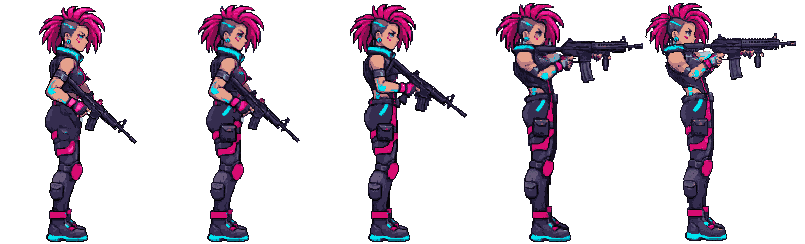
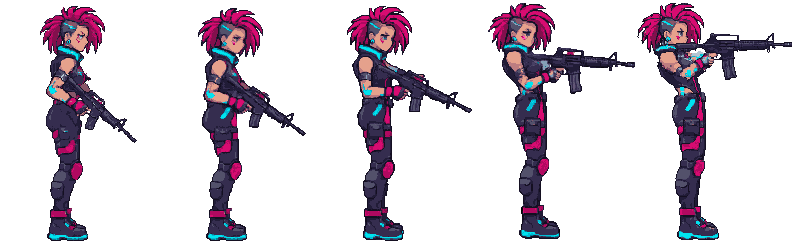
Sturmgewehr: ein Gewehr in allen Posen, Nachladen mit Magazinwechsel, Symbol im Inventar, auf dem Rücken, Posen leihen
Claude-Session: https://claude.ai/code/session_01DEYRZvtj1NpTzQf9JS3dST

diff --git a/engine/schema.js b/engine/schema.js
@@ -477,12 +477,16 @@ export const AREAS = {
         num('knockback', 'Rückstoß', { unit: 'px/s', min: 0 }), num('critChance', 'Krit-Chance', { unit: '%', min: 0, max: 100 }), num('ammo', 'Munition', { min: 0, hint: 'Leer = unendlich' }),
         num('projectileSpeed', 'Geschosstempo', { unit: 'px/s', min: 0, hint: 'Nur Fernkampf: so schnell fliegt das Geschoss' }), ref('sound', 'Schuss-Ton', 'assets', { hint: 'Asset der Art Ton' }),
         num('magazine', 'Magazin', { unit: 'Schuss', min: 1, hint: 'Nur Fernkampf: so viele Schuss, dann nachladen (R, leer = automatisch). Munition = Vorrat insgesamt' }), num('reloadTime', 'Nachladen dauert', { unit: 'ms', min: 0 })] },
-      { title: 'Posen (Leyla)', fields: [ref('poses.draw', 'Ziehen', 'assets', { hint: 'Daniel, 12.11.2026: eine Waffe kann eigene Posen für Leyla mitbringen (Sturmgewehr). Leer = Leylas eigene (Leyla › Waffe ziehen). Rückwärts = wegstecken' }),
+      { title: 'Posen (Leyla)', fields: [ref('posesFrom', 'Posen von', 'weapons', { hint: 'Daniel, 12.11.2026: „neue Waffen, die entweder Kurzwaffe oder Langwaffe sind, sollten einfach sein“. Eine neue Langwaffe leiht sich Posen und Rücken-Lage vom Sturmgewehr, eigene Felder unten gehen vor. Auf dem Rücken zeigt sie ihr eigenes Symbol' }), ref('poses.draw', 'Ziehen', 'assets', { hint: 'Daniel, 12.11.2026: eine Waffe kann eigene Posen für Leyla mitbringen (Sturmgewehr). Leer = Leylas eigene (Leyla › Waffe ziehen). Rückwärts = wegstecken' }),
         ref('poses.aim', 'Zielen', 'assets'), ref('poses.shoot', 'Schießen', 'assets'), ref('poses.aimWalk', 'Gehen mit Waffe', 'assets'), ref('poses.shootWalk', 'Schießen im Gehen', 'assets'),
         ref('poses.reload', 'Nachladen', 'assets'), ref('poses.reloadWalk', 'Nachladen im Gehen', 'assets'),
         ref('poses.runGun', 'Rennen mit Waffe', 'assets'), ref('poses.runReady', 'Rennen, Waffe bereit', 'assets'), ref('poses.runDraw', 'Rennen, Ziehen', 'assets'),
         ref('poses.runReload', 'Rennen + Nachladen 1', 'assets'), ref('poses.runReload2', 'Rennen + Nachladen 2', 'assets'),
         point('poses.muzzle', 'Mündung', { unit: 'px', hint: 'Wie Leyla › Waffe ziehen › Mündung, für diese Waffe' }), point('poses.muzzleRun', 'Mündung im Rennen', { unit: 'px' })] },
+      { title: 'Auf dem Rücken', fields: [select('back.show', 'Zeigen', [['', 'nie'], ['stowed', 'immer, wenn weggesteckt'], ['moves', 'nur beim Klettern, Springen, Hängen']], { hint: 'Daniel, 12.11.2026: das Gewehr hängt auf Leylas Rücken, wenn sie es nicht in der Hand hat. Bild = das Symbol der Waffe (Aussehen + Symbol)' }),
+        num('back.length', 'Länge im Spiel', { unit: 'px', min: 10, hint: 'Bei 192 px Größe von Leyla' }),
+        table('back.spots', 'Stelle je Lage', [select('state', 'Lage', [['stand', 'Stehen, Gehen, Rennen'], ['jump', 'Springen, Fallen'], ['climb', 'Klettern (von hinten)'], ['hang', 'Hängen'], ['mantle', 'Hochziehen'], ['swing', 'Seil'], ['dash', 'Dash'], ['slide', 'Slide'], ['crouch', 'Ducken'], ['land', 'Harte Landung'], ['brake', 'Bremsen']]),
+          point('point', 'Stelle', { unit: 'px', hint: 'x hinter Leyla, y über den Füßen' }), num('angle', 'Winkel', { unit: '°' }), bool('front', 'Vor Leyla'), bool('hide', 'Ausblenden')])] },
       { title: 'Rucksack & Handel', fields: [size('size', 'Größe', { unit: 'Felder' }), VALUE] },
     ],
     check: iconCheck,

diff --git a/game/play/leyla.js b/game/play/leyla.js
@@ -18,7 +18,8 @@ export class Leyla {
   // Leyla's data, with the poses of the ranged weapon in her hand laid over her own looks (Waffen › Posen, Daniel, 12.11.2026:
   // „Sturmgewehr als Grundlage für weitere Waffenvarianten“); without poses: her own data
   get d() {
-    const w = this.scene.weapon?.('ranged'), P = w?.poses;
+    const w = this.scene.weapon?.('ranged'), from = w?.posesFrom && this.scene.data_.weapons?.[w.posesFrom];
+    const P = w && (w.poses || from?.poses) ? { ...from?.poses, ...w.poses } : null;   // Waffen › Posen von: a new gun borrows the poses of another one
     if (!P) return this.base;
     if (this.posesOf !== w) {
       this.posesOf = w;
@@ -691,6 +692,29 @@ export class Leyla {
     this.sprite.setFlipX(flipped).setOrigin(flipped ? 1 - info.ox : info.ox, info.oy);   // Phaser mirrors inside the frame: the anchor has to mirror too
     if (st !== 'dead') this.sprite.setAlpha(time < this.invulnerableUntil && Math.floor(time / 70) % 2 ? 0.35 : 1);
     this.recoil(time);
+    this.backGun(name);
+  }
+
+  // Waffen › Auf dem Rücken (Daniel, 12.11.2026: „ergänze, dass ein Gewehr auf ihrem Rücken hängt, wenn sie klettert oder springt“):
+  // the long gun hangs on her back while it is not in her hands; the picture is the gun's inventory icon, placed per state
+  // (Stelle: x behind her, y above the feet, in px at 192 px height; Winkel: muzzle up behind the shoulder; Vor Leyla: seen from behind)
+  backGun(look) {
+    const w = this.scene.weapon?.('ranged'), B = w?.back || (w?.posesFrom && this.scene.data_.weapons?.[w.posesFrom]?.back), sp = this.sprite, st = this.state, f = this.facing;
+    const air = ['jump', 'fall', 'airJump'].includes(look);
+    const state = air ? 'jump' : ['climb', 'hang', 'mantle', 'swing', 'dash', 'slide', 'crouch', 'land', 'brake'].includes(st) ? st : 'stand';
+    const moves = air || ['climb', 'hang', 'mantle', 'swing'].includes(st);
+    const rows = B?.spots || [], row = rows.find(r => r.state === state) || rows.find(r => r.state === 'stand');
+    const hidden = !B?.show || !w.look || w.icon == null || !row || row.hide || this.armed !== 'off' || !sp.visible || st === 'dead'
+      || ['sit', 'pose'].includes(st) || look === '@' + this.d.look?.work || (B.show === 'moves' && !moves) || !this.scene.textures.exists(w.look);
+    if (hidden) { if (this.backImg?.visible) this.backImg.setVisible(false); this.backShown = null; return; }
+    const A = this.scene.data_.assets?.[w.look], cw = (Array.isArray(A?.cell) ? A.cell[0] : A?.cell) || 64, k = this.size.h / 168;
+    this.backImg ??= this.scene.add.image(0, 0, w.look, w.icon);
+    const [px, py] = row.point || [14, 120], ang = (row.angle ?? 60) * Math.PI / 180;
+    this.backImg.setTexture(w.look, w.icon).setVisible(true).setDepth(sp.depth + (row.front ? 0.002 : -0.002))
+      .setPosition(sp.x - f * px * k, sp.y - py * k).setRotation(f * ang + (sp.rotation || 0)).setFlipX(f > 0)
+      .setScale((B.length ?? 110) * k / cw).setAlpha(sp.alpha);
+    if (sp.isTinted) this.backImg.setTint(sp.tintTopLeft); else this.backImg.clearTint();
+    this.backShown = state;
   }
 
   // ---------- melee (Daniel, 07.11.2026 spät): tap = light hit, standing or walking; holding = heavy hit when released ----------

diff --git a/game/play/inventory_ui.js b/game/play/inventory_ui.js
@@ -38,13 +38,18 @@ export function iconCell(D, t) {
   if (A?.kind !== 'icons' || !A.file || t.icon === undefined) return null;
   const [c, r] = A.grid || [1, 1];
   if (t.icon < 0 || t.icon >= c * r) return null;
-  return { url: new URL(A.file, ASSET_BASE).href, c, r, col: t.icon % c, row: Math.floor(t.icon / c) };
+  const [cw, ch] = Array.isArray(A.cell) ? A.cell : [A.cell || 1, A.cell || 1];
+  return { url: new URL(A.file, ASSET_BASE).href, c, r, col: t.icon % c, row: Math.floor(t.icon / c), aspect: cw / ch || 1 };
 }
-export function artOf(D, a, id, px, turn = 0) {
+// the picture of a thing; wide icon sheets (e.g. 128 × 64 for long guns, Daniel 12.11.2026) keep their shape:
+// px × ph is the box before turning, without ph the picture fits into a px square
+export function artOf(D, a, id, px, turn = 0, ph = null) {
   const k = iconCell(D, thing(D, a, id));
   if (!k) return null;
+  let w = px, h = ph ?? px;
+  if (ph == null && k.aspect !== 1) { if (k.aspect > 1) h = px / k.aspect; else w = px * k.aspect; }
   const pos = (i, n) => n > 1 ? (i / (n - 1)) * 100 : 0;
-  return el('span', { class: 'inv-art', style: `width:${px}px;height:${px}px;background-image:url("${k.url}");background-size:${k.c * 100}% ${k.r * 100}%;` +
+  return el('span', { class: 'inv-art', style: `width:${w}px;height:${h}px;background-image:url("${k.url}");background-size:${k.c * 100}% ${k.r * 100}%;` +
     `background-position:${pos(k.col, k.c)}% ${pos(k.row, k.r)}%;${turn ? `transform:rotate(${turn * 90}deg);` : ''}` });
 }
 // picture if there is one, otherwise the glyph as text
@@ -285,8 +290,11 @@ export class InventoryUI {
     const set = new Set(cells.map(p => p.join(',')));
     for (const [x, y] of cells) wrap.append(el('i', { style: `left:${x * c}px;top:${y * c}px;width:${c}px;height:${c}px`,
       class: [!set.has(`${x - 1},${y}`) && 'l', !set.has(`${x + 1},${y}`) && 'r', !set.has(`${x},${y - 1}`) && 't', !set.has(`${x},${y + 1}`) && 'b'].filter(Boolean).join(' ') }));
-    const [lx, ly] = cells[0], side = Math.min(b.w, b.h) * c, art = artOf(D, e.a, e.id, Math.round(side * 0.92), e.r || 0);
-    if (art) { wrap.classList.add('pic'); wrap.append(el('span', { class: 'inv-pic', style: `left:${(b.w * c - side) / 2}px;top:${(b.h * c - side) / 2}px;width:${side}px;height:${side}px` }, art)); }
+    // the picture fills the box in its own shape (square icons a square, wide ones as wide as the thing), turned with it
+    const [lx, ly] = cells[0], k = iconCell(D, t), odd = (e.r || 0) % 2 === 1, W = b.w * c, H = b.h * c;
+    const [uw, uh] = odd ? [H, W] : [W, H], sz = k ? Math.min(uw / k.aspect, uh) : 0, aw = sz * (k?.aspect || 1) * 0.92, ah = sz * 0.92;
+    const art = k && artOf(D, e.a, e.id, aw, e.r || 0, ah);
+    if (art) { wrap.classList.add('pic'); wrap.append(el('span', { class: 'inv-pic', style: `left:${(W - aw) / 2}px;top:${(H - ah) / 2}px;width:${aw}px;height:${ah}px` }, art)); }
     else wrap.append(el('span', { class: 'inv-glyph', style: `left:${lx * c}px;top:${ly * c}px;width:${c}px;height:${c}px` }, glyphOf(D, e.a, e.id)));
     if (!art && (b.w * c >= 80 || b.h > 1)) wrap.append(el('span', { class: 'inv-name' }, t.name || e.id));
     if (e.n > 1) wrap.append(el('span', { class: 'inv-count' }, String(e.n)));

diff --git a/game/play/scene.js b/game/play/scene.js
@@ -55,7 +55,7 @@ export class PlayScene extends Phaser.Scene {
     for (const id of [DR.look, DR.face?.look, DR.face?.glass, ...(DR.parts || []).filter(r => r.on).map(r => r.look)]) if (id) ids.add(id);
     for (const r of this.data_.leyla?.idles || []) if (r.look) ids.add(r.look);
     { const C = this.data_.leyla?.combo || {}; for (const r of C.hits || []) for (const id of [r.look, r.walk]) if (id) ids.add(id); if (C.finisher) ids.add(C.finisher); }   // melee combo (Leyla › Kombo)
-    for (const w of Object.values(this.data_.weapons || {})) for (const id of [w.sound, ...Object.values(w.poses || {}).filter(v => typeof v === 'string')]) if (id) ids.add(id);   // Waffen › Posen
+    for (const w of Object.values(this.data_.weapons || {})) for (const id of [w.sound, (w.back?.show || w.posesFrom) && w.look, ...Object.values(w.poses || {}).filter(v => typeof v === 'string')]) if (id) ids.add(id);   // Waffen › Posen, › Auf dem Rücken
     const SP = this.data_.game?.spawn;
     for (const id of [SP?.look, SP?.dish?.look, SP?.roof?.front, this.data_.rooms?.[this.roomId]?.backdrop?.image]) if (id) ids.add(id);
     if (this.data_.camp?.chest?.look) ids.add(this.data_.camp.chest.look);   // chests in POIs too

diff --git a/tools/rifle_strips.py b/tools/rifle_strips.py
@@ -9,6 +9,7 @@ Prints frame size, frame count and the anchor (feet) for assets.json.
     python3 tools/rifle_strips.py
 """
 import os
+from collections import deque
 from PIL import Image
 
 L = os.path.join(os.path.dirname(__file__), '..', 'projects', 'nomadgirl', 'assets', 'leyla')
@@ -21,7 +22,7 @@ STRIPS = {
     'rifle_draw_side': ('rifle_draw_side_source.png', (208, 244), range(0, 7), 93.5, 242),
     'rifle_aim_side': ('rifle_aim_side_source.png', (208, 244), range(0, 5), 89.5, 242),
     'rifle_shoot_side': ('rifle_shoot_side_source.png', (208, 244), [1, 2, 3, 4], 89.5, 242),
-    'rifle_reload_side': ('rifle_reload_side_source.png', (208, 244), range(0, 11), 89.5, 242),
+    'rifle_reload_side': ('rifle_reload_side_source.png', (208, 244), range(0, 23), 89.5, 242),
     'rifle_aim_walk_side': ('rifle_aim_walk_side_source.png', (208, 244), range(0, 8), 106, 242),
     'rifle_run_gun_side': ('rifle_run_gun_side_source.png', (208, 244), range(0, 8), 106, 242),
     'rifle_run_ready_side': ('rifle_run_ready_side_source.png', (208, 244), range(0, 8), 106, 242),
@@ -52,11 +53,49 @@ def snap(im, pal, cache):
     return im
 
 
+def components(im):
+    px, (w, h), seen, out = im.load(), im.size, set(), []
+    for y in range(h):
+        for x in range(w):
+            if px[x, y][3] and (x, y) not in seen:
+                q, c = deque([(x, y)]), []
+                seen.add((x, y))
+                while q:
+                    a, b = q.popleft()
+                    c.append((a, b))
+                    for dx in (-1, 0, 1):
+                        for dy in (-1, 0, 1):
+                            n = (a + dx, b + dy)
+                            if 0 <= n[0] < w and 0 <= n[1] < h and n not in seen and px[n][3]:
+                                seen.add(n)
+                                q.append(n)
+                out.append(c)
+    return sorted(out, key=len, reverse=True)
+
+
+def mend(f, pad):
+    """PixelLab cuts a muzzle that reaches the right edge and lets it come in again at the left edge (the 'artefacts behind Leyla'):
+    pieces touching the left edge go back to the right, behind the barrel; specks of 1-3 pixels go."""
+    out = Image.new('RGBA', (f.width + pad, f.height))
+    out.paste(f, (0, 0))
+    src, px = f.load(), out.load()
+    for c in components(f)[1:]:
+        for x, y in c:
+            px[x, y] = (0, 0, 0, 0)
+        if len(c) <= 3:
+            continue
+        dx = f.width if min(x for x, _ in c) == 0 and len(c) < 300 else 0
+        for x, y in c:
+            px[x + dx, y] = src[x, y]
+    return out
+
+
 def main():
     pal, cache = palette(), {}
     for out, (src, (fw, fh), take, ax, ay) in STRIPS.items():
         S = Image.open(os.path.join(L, src)).convert('RGBA')
-        frames = [snap(S.crop((i * fw, 0, (i + 1) * fw, fh)), pal, cache) for i in take]
+        frames = [mend(snap(S.crop((i * fw, 0, (i + 1) * fw, fh)), pal, cache), 48) for i in take]
+        fw += 48
         boxes = [f.getbbox() for f in frames if f.getbbox()]
         x0, x1 = min(b[0] for b in boxes), max(b[2] for b in boxes)
         x0, x1 = max(0, x0 - 1), min(fw, x1 + 1)

diff --git a/CLAUDE.md b/CLAUDE.md
@@ -30,7 +30,7 @@ node tools/ng.js check                     # Spieldaten prüfen
 npm run serve                              # dann http://localhost:8766/workshop.html
 node tools/workshop_test.mjs [--shots]     # Werkstatt kopflos bedienen (Server muss laufen), Bilder nach output/
 node tools/splash_test.mjs [--shots]       # Startseite in drei Größen + Controller (Menü wählen, Kurve, A öffnet) (Server muss laufen)
-node tools/game_test.mjs [--shots]         # Spiel kopflos im Kampfraum (?room=kampfraum): Kampf, schwerer Nahkampf, Magazin + Nachladen, Slide, Plattformen, Leiter, Seil, Dash, Drohne mit Gesicht + Kabeln, Kampfmodus, Quick Draw + halten = wegstecken, Cells-like mit Zielhilfe, Schlitten, Rennen im Kampfmodus (Brust, Schuss, Nachladen, Wegstecken), Nachladen im Sprung + Pause bei Treffer, Treffer leicht/schwer, Kombo mit Takt und Schuss, Waffe wechseln + Revolver aus Code (50 Prüfungen)
+node tools/game_test.mjs [--shots]         # Spiel kopflos im Kampfraum (?room=kampfraum): Kampf, schwerer Nahkampf, Magazin + Nachladen, Slide, Plattformen, Leiter, Seil, Dash, Drohne mit Gesicht + Kabeln, Kampfmodus, Quick Draw + halten = wegstecken, Cells-like mit Zielhilfe, Schlitten, Rennen im Kampfmodus (Brust, Schuss, Nachladen, Wegstecken), Nachladen im Sprung + Pause bei Treffer, Treffer leicht/schwer, Kombo mit Takt und Schuss, Waffe wechseln + Revolver aus Code, Sturmgewehr mit Posen + auf dem Rücken (51 Prüfungen)
 node tools/camp_test.mjs [--shots]         # Camp (game.html?camp): Van-Menü, Warroom, Run und zurück, Schlafen, Feuer, Reden, Fahren, k.o., Kiste, W mit Hinweis + Fenster pausiert, Ton, Van-Licht, Dämmerung, Schacht, Sitzen am Feuer, Spielstand (26 Prüfungen), Bilder nach output/camp_*.png
 node tools/inventory_test.mjs [--shots]    # Inventar mit echten Mausklicks: Kiste, Symbole statt Kürzel, nehmen/ablegen, drehen, Doppelklick, Slots, Rucksack tauschen, Lager, Boden-Inventar, Auto-Stapeln, k.o., Aktionen im Tooltip/Rechtsklick-Menü: Heilen, Drohne geben, Ausrüsten, per Taste, Boden-Leiste (zeigen, E hebt auf, weg = aus) (33 Prüfungen)
 node tools/gear_test.mjs [--shots]        # Inventar im Diablo-Stil mit echten Mausklicks: Rucksack | Leyla | AvA, Kopf + Rüstung mit Werten, falscher Platz, Tab Implantate (Scan, 6 Plätze), Implantat im Camp, Belastung, AvAs Teile (auch draußen), Rettungsfach, Reaktionen, im Run keine Implantate, k.o. behält Rettungsfach, Umschalten im selben Fenster (20 Prüfungen)
@@ -146,7 +146,8 @@ Daniel nutzt PixelLab für Grafiken (10.11.2026: „direkte Verbindung“). `.mc
 - **AvA als Plattform** (Daniel, 12.11.2026: „Mama als Plattform meine ich eher im Sinne von: Leyla kann dran hochklettern und auf ihr stehen, bis der Akku alle ist“). `drone.js` `makePlatform`/`updatePlatform`/`ledgeFor`/`empty`, Drohne › **Plattform**: solange AvA mit dem rechten Stick rausgezogen ist (Gummiband) oder danach **parkt** („Parkt nach dem Loslassen“ 1800 ms, dann fliegt sie zurück), ist ihre Oberkante eine Einweg-Plattform (eigene Zone mit Collider, „Breite“ 110 px, „Oberkante unter dem Scheitel“ 14 px) und ihre Seiten sind Kanten: `scene.ledgeAt` fragt nach den Kacheln `drone.ledgeFor` (auch etwas unter ihrer Kante), Leyla hängt dort oder zieht sich hoch; ist unter ihr kein Platz zum Hängen (tief über dem Boden), klettert sie direkt hinauf (`startVault`). Trägt sie Leyla (stehen, hängen), hält sie still, sinkt leicht („Sinkt beim Tragen“) und der **Akku** läuft leer („Akku“ 4 s, Balken über ihr: cyan/gold/rot); leer = „Akku leer!“, sie sackt weg, Leyla fällt bzw. lässt los, „Erholt sich ab“ 1,5 s; ohne Last lädt sie in „Aufladen“ 6 s. **Schweben** (Daniel, 12.11.2026: „kurz schweben mit Leyla ist ok, aber mit dem Gewicht kann sie das nicht lange machen“): steht Leyla auf ihr, bewegt der rechte Stick beide (Plattform › Schweben: Tempo 150 px/s, nach oben 60 %, Akku-Verbrauch ×3, also gut 1 s Flug); Leyla wird mitgeschoben (`body.x/y` + `prev`), nicht durch Wände (`rectFree`). **Leichter drauf und dran** (Daniel, 12.11.2026: „zu schwer, sich an die Drohne zu hängen, sieht clunky aus; Stehen: lass Leyla direkt auf bzw. in der oberen Hälfte stehen; Hängen so ähnlich, nur mit dem hinteren Part“): Standfläche 34 px unter ihrem Scheitel (Leyla steht in ihrer oberen Hälfte); ist Leyla in der Luft mit den Füßen bis „Aufsteigen: Fangbereich“ (70 px) unter der Standfläche, steht sie sofort drauf (nicht beim Hochspringen schneller als 250 px/s, nicht beim Durchfallen); **Hängen am Greifarm** hinten (`gripPoint`, Plattform › Hängen am Anbauteil, ohne Teil „Griff ohne Teil“): Hände in „Hängen: Fangbereich“ 70 px → sie greift von selbst (nur wo die Beine frei hängen, `hangFits`), ↑/Sprung zieht sie oben drauf; **hängend fliegt sie mit** (rechter Stick, `carryLeyla` schiebt Leyla und den Griff mit, nicht durch Wände), auch das Absinken nimmt sie mit. **Teile machen sie stärker:** Gegenstände › „AvA: mehr Akku“ (`battery` %, über Bug, Heck, Kern, Modul summiert, `batteryBonus`): Greifarm +10, neu **Hochleistungszelle** (Kern, +60) und **Turbinenmodul** (Modul, +35), beide in der Drohnen-Beute. Nicht im Bau-Modus und nicht angedockt. Offen: Akku aus einem Drohnenteil (Kern), Tastatur-Steuerung für das Gummiband.
 - **Bau-Modus mit AvA, Leyla am Feuer** (Daniel, 12.11.2026: „im Bau-Modus im Rig soll man nur noch die Drohne steuern und Leyla setzt sich ans Feuer“). `build_mode.js`: beim Öffnen setzt `sitAtFire` Leyla neben das Lagerfeuer (Staubwölkchen, auch aus einem Container oben; sitzt wie am Feuer, aber ohne Zeit und Heilen), beim Schließen steht sie auf. `droneTarget` → `drone.build` je Frame: AvA fliegt über dem Zeiger bzw. Bau-Cursor (Rig-Bau › Bau-Modus › „AvA über dem Zeiger“ 60 px, „folgt“ 30 %), ein gepacktes Teil hängt unter ihr; ist „Leyla werkelt“ an, fliegt sie zum Job und schraubt dort (Funken, Ratsche, Ring). Schalter „Leyla setzt sich ans Feuer“, „AvA trägt die Teile“. `drone.js`: `build` überschreibt Folgen, Gummiband und Herumfliegen.
 - **Revolver-Test: Waffe aus Code + Wechseln** (Daniel, 12.11.2026: „ohne einen Sprite anzufassen mal einen Test machen für einen Revolver: du legst Code-Grafik drüber und wir proben den Switch“). `game/play/gun_skins.js`: Waffen › **Aussehen aus Code** (`skin`, bisher `revolver`). Für die Posen mit ausgestreckten Armen (`SKIN_LOOKS`: aim, aimWalk, shoot, shootWalk, runGun, je mit Gegenrichtung) baut `skinnedLook` beim ersten Gebrauch eine Kopie des Streifens (`<asset>@revolver`, die Dateien bleiben unberührt): je Frame wird die gemalte Pistole gefunden (dunkler, grauer Pixel-Haufen ab dem vordersten Pixel im Oberkörper, Flutfüllung, höchstens 28 % der Breite), der Schlitten (breite Zeilen oben, samt Kimme) und was unter seiner vorderen Hälfte hängt wird ausgeschnitten, Griff und Hand bleiben; dann malt der Code den Revolver (Rahmen mit Hahn über der Hand, Trommel mit Rillen und Messingrand, langer Lauf mit Korn und Ausstoßerstange, Umriss in Leylas Linienfarbe). Mündungsblitz-Frames (Pistole nicht zu finden) nehmen die Lage aus dem Frame davor. `playLook` tauscht die Textur, wenn die Fernkampfwaffe ein `skin` hat; `prevKey` schneidet `@…` ab (Schritt bleibt). **An der Brust** (Ziehen, Bereit, Nachladen, Rennen bereit) bleibt die gemalte Pistole: das braucht echte Grafik. **Wechseln:** Taste **V** / Controller **L3** (`swap`, Spiel › Controller) nimmt die nächste Fernkampfwaffe aus dem Rucksack in die Hand, die alte kommt in den Rucksack (`scene.swapRanged`, Magazin neu); im Testraum ohne Spielstand geht es durch alle Fernkampfwaffen (`testSlots`). Neue Waffe **Trommelrevolver** (6 Schuss, 15 Schaden, 1,5 s Nachladen, Symbol aus `icons_treasure`). **Nachreichen** (Spiel › Start › Nachreichen, `start.later`, `save.handedOut`): jeder Spielstand bekommt die Zeilen genau einmal, hier den Revolver in den Rucksack.
-- **Sturmgewehr: Waffen mit eigenen Posen** (Daniel, 12.11.2026: „nur zum Test eine Leyla in allen Animationsphasen, die ein generisches Sturmgewehr bedient (laufen, nachladen, schießen …), Grundlage für weitere Waffenvarianten“). Waffen › **Posen (Leyla)** (`poses.draw`, `aim`, `shoot`, `aimWalk`, `shootWalk`, `reload`, `reloadWalk`, `runGun`, `runReady`, `runDraw`, `runReload`, `runReload2`, dazu `muzzle`, `muzzleRun`): `Leyla.d` ist ein Getter, der Leylas Daten mit den Posen der Fernkampfwaffe in der Hand überlagert (je Waffe gemerkt, `posesOf`); `scene.playLook`/`lookDuration` nehmen `leyla.d.look`, `preload` lädt die Posen aller Waffen. Leer = Leylas eigene. Neue Waffe **Sturmgewehr** (`sturmgewehr`, 30 Schuss, 110 ms, 4 × 2, nachgereicht über Spiel › Start › Nachreichen; im Testraum mit V durchschalten). Grafiken `leyla_rifle_*` (PixelLab: Schlüsselposen Anschlag aus `aim_side` und Bereitschaft aus `idle_side` mit Edit Pro Flash, Ziehen/Anlegen/Schuss/Nachladen mit Animate Image (erster/letzter Frame fest), Gehen und Rennen mit edit_animation auf `walk_side`/`run_side`; `tools/rifle_strips.py` rastet auf Leylas Farben ein und schneidet zu). Bereitschaft = letzter Frame von Ziehen (Gewehr schräg vor dem Körper), wie bei der Pistole „an der Brust“. **Vorerst:** Rennen + Ziehen/Nachladen nutzen Rennen bereit, Nachladen im Gehen = im Stand, Schießen im Gehen = Gehen im Anschlag; die Gewehre in Anschlag- und Lauf-Posen sind nicht ganz dasselbe Modell (PixelLab je Aufruf), an zwei Gehen-Frames ist die Mündung knapp angeschnitten. **Weitere Varianten:** edit_animation auf die `rifle_*_source.png` mit „replace the rifle with …“ (Posen bleiben), dann `rifle_strips.py` erweitern und eine neue Waffe mit eigenen Posen anlegen. Geprüft in `game_test`.
+- **Sturmgewehr: Waffen mit eigenen Posen** (Daniel, 12.11.2026: „nur zum Test eine Leyla in allen Animationsphasen, die ein generisches Sturmgewehr bedient (laufen, nachladen, schießen …), Grundlage für weitere Waffenvarianten“). Waffen › **Posen (Leyla)** (`poses.draw`, `aim`, `shoot`, `aimWalk`, `shootWalk`, `reload`, `reloadWalk`, `runGun`, `runReady`, `runDraw`, `runReload`, `runReload2`, dazu `muzzle`, `muzzleRun`): `Leyla.d` ist ein Getter, der Leylas Daten mit den Posen der Fernkampfwaffe in der Hand überlagert (je Waffe gemerkt, `posesOf`); `scene.playLook`/`lookDuration` nehmen `leyla.d.look`, `preload` lädt die Posen aller Waffen. Leer = Leylas eigene. Neue Waffe **Sturmgewehr** (`sturmgewehr`, 30 Schuss, 110 ms, 4 × 2, nachgereicht über Spiel › Start › Nachreichen; im Testraum mit V durchschalten). Grafiken `leyla_rifle_*` (PixelLab: Schlüsselposen Anschlag aus `aim_side` und Bereitschaft aus `idle_side` mit Edit Pro Flash, Ziehen/Anlegen/Schuss/Nachladen mit Animate Image (erster/letzter Frame fest), Gehen und Rennen mit edit_animation auf `walk_side`/`run_side`; `tools/rifle_strips.py` rastet auf Leylas Farben ein und schneidet zu). Bereitschaft = letzter Frame von Ziehen (Gewehr schräg vor dem Körper), wie bei der Pistole „an der Brust“. **Vorerst:** Rennen + Ziehen/Nachladen nutzen Rennen bereit, Nachladen im Gehen = im Stand, Schießen im Gehen = Gehen im Anschlag. **Ein Gewehr für alle Posen** (Daniel, 12.11.2026: „Artefakte hinter Leyla“, „das Gewehr ist nicht konsistent (beim low ready hat es einen Frontgriff)“, „Nachladen ist nicht so hübsch“): Vorlage = M4-Karabiner mit Tragegriff ohne Frontgriff aus Gehen/Rennen; freigestellt als Symbol `icons_longguns` (PixelLab Create Image Pro mit dem Gewehr als Referenz), Anschlag und Bereitschaft neu (Edit Pro Flash mit Referenz bzw. Text), Ziehen, Anlegen, Schuss neu (Animate Image), Rennen bereit angeglichen (edit_animation). **Nachladen** 23 Frames aus Schlüsselposen „Magazin raus“/„Magazin rein“: Anschlag runter, Magazin ziehen, fallen lassen (liegt kurz am Boden), neues vom Gürtel, einsetzen, durchladen, Anschlag (`reloadTime` 1600). Die Artefakte waren abgeschnittene Mündungen, die PixelLab am linken Rand wieder einsetzt: `mend` in `tools/rifle_strips.py` setzt Teile am linken Rand wieder vorn an den Lauf (Rahmen +48 px), Krümel ≤ 3 px fliegen raus. **Weitere Varianten:** edit_animation auf die `rifle_*_source.png` mit „replace the rifle with …“ (Posen bleiben), dann `rifle_strips.py` erweitern und eine neue Waffe mit eigenen Posen anlegen. Geprüft in `game_test`.
+- **Langwaffen: Symbol, Rücken, Posen leihen** (Daniel, 12.11.2026: „ein Sprite fürs Inventar, damit das Gewehr im Rucksack schön aussieht“, „ein Gewehr auf ihrem Rücken, wenn sie klettert oder springt“, „neue Waffen, die entweder Kurzwaffe oder Langwaffe sind, sollte jetzt einfach sein“). **Breite Symbole:** Symbol-Raster mit nicht quadratischen Feldern (`cell` [128, 64], `icons_longguns`) behalten ihre Form: `iconCell` liefert `aspect`, `itemEl` füllt die Box des Dings in dieser Form (dreht mit), `artOf` passt in Slots ein. **Auf dem Rücken** (Waffen › Auf dem Rücken: Zeigen nie / immer, wenn weggesteckt / nur Klettern-Springen-Hängen, Länge 110 px, Tabelle Stelle je Lage: Lage, Stelle x hinter Leyla / y über den Füßen, Winkel, Vor Leyla, Ausblenden): `backGun` in `leyla.js` zeigt das Symbol der Waffe als Bild hinter Leyla (Klettern von hinten: davor), solange `armed` = off; nicht beim Sitzen, Yoga, an der Werkstatt, k.o.; `l.backShown` = Lage. Sturmgewehr: „immer, wenn weggesteckt“ (Daniel wollte Klettern/Springen, Stehen kam logisch dazu; umschaltbar). **Posen von** (`posesFrom`): eine Waffe leiht sich Posen und Rücken-Lage einer anderen, eigene Felder gehen vor; auf dem Rücken zeigt sie ihr eigenes Symbol. Neue Langwaffe = Werte + Symbol im Raster `icons_longguns` (verbreitern) + `posesFrom: sturmgewehr`; eigene Posen später per edit_animation auf die `rifle_*_source.png`. Kurzwaffe = ohne Posen (Leylas Pistolen-Posen), optional Aussehen aus Code (Revolver).
 - **Einarmig baumeln** (Daniel, 12.11.2026: „wie Leyla einarmig baumelt, z. B. an der Drohne“; dann „an der Drohne default (nicht am Haken, sondern am Rand, wo sie jetzt hängt)“, „normales Baumeln einmal nach unten antippen = einarmiges Baumeln, dann loslassen“): `look.hangOne` = `leyla_hang_one_arm_side` (8 Frames, pendelt; Anker 39,5/248 so, dass die Hand dort sitzt, wo beim Hängen die Hände sind). Zustand bleibt `hang`, dazu `leyla.oneArm`: an AvA immer (`startHang` mit `L.drone`, Leyla › Kanten & Ducken › „An AvA einarmig“), an Kanten nach einmal **↓** („Hängen: ↓ = einarmig“), nochmal ↓ lässt los; ↑/Sprung zieht hoch wie bisher. `BORROW.hangOne = ['hang']`. Geprüft im Parkour-Test (Kante ↓/↓, an AvA einarmig).
 - **Sturmgewehr für jeden Spielstand** (Daniel, 12.11.2026: „ein Gewehr ins Inventar, das man ausrüsten kann, auch in existierenden Spielständen; lösch einfach andere Items, bis es passt“): Spiel › Start › Nachreichen hat die Spalte **Platz machen** (`force`, Schlüssel `<art>:<id>!` in `save.handedOut`): wer das Ding schon irgendwo hat (Raster oder Slot), bekommt keins; sonst fliegen die neuesten Dinge aus dem Rucksack in die Kiste im Camp (ist sie voll, sind sie weg), bis es passt. Geprüft in `test/save.test.js`; `inventory_test` räumt Revolver und Gewehr vorher weg.
 - **Gegner-KI** (Daniel, 12.11.2026: „Gegner KI und Logiken dafür, dass man nicht durch Objekte schießen oder schlagen kann“; Weichen: Wahrnehmung **Sicht + Gehör**, Umfang bestehende schärfen + Lauerer + Flieger + Konter-Gegner, **Bausteine + Werkstatt**). `enemies.js` (`Enemy`), Zustände patrol · alert · engage · search · windup · strike · recover · dodge · stagger · lurk · dead. **Wahrnehmung** (Gegner › Wahrnehmung): `sees` = in „Sieht Leyla bis“ (`aggroRange`), im Blickwinkel (`sense.cone`, Flieger 360) oder dicht dahinter (`sense.behind`), freie Linie von den Augen zu Brust oder Kopf (`scene.lineFree`, alle 90 ms); **Gehör** `hear` über `scene.noise(x, y, r)` (Spiel › Kampf › Lärm: Schuss 900, Nahkampf 380; × `sense.hearing` %, durch Wände halb), patrouillierende Gegner stehen kurz mit „?“ / „?!“ (`sense.react`), **Gedächtnis** `lastKnown`: ohne Sicht länger als `sense.lost` → `search` (hinlaufen, umschauen), nach `sense.search` „…“ und wieder Patrouille. **Bewegung** (Gegner › Bewegung): Patrouille-Radius, Stufen hoch im Sprung (`move.jump`), beim Verfolgen tief runter (`move.drop`), Flieger ohne Schwerkraft mit `move.flyHeight`. **Angriffe** (`attack.kind`, leer = nach Verhalten): Hieb (Patrouille), Sturmangriff (Stürmer, Boss), Schuss (Schütze; Flieger mit Geschosstempo; `attack.burst` Salve), Sturzflug (Flieger ohne Schuss), Fallen (Lauerer: hängt an der Decke über seinem Spawn, `toCeiling`, fällt, wenn Leyla darunter ist, danach Stürmer). Jeder Angriff wird angekündigt (Blinken + „!“, Ziellinie endet an der Wand), Schüsse nur mit freier Linie, Mündung in der Wand = kein Schuss. **Konter** (Gegner › Konter): Schild vorn (Schuss + leichter Hieb von vorn = „Block“, `hit` gibt `'blocked'` zurück und Leyla prallt zurück; schwerer Hieb, Kombo-Abschluss, aufgesetzter Schuss = „Deckung offen!“ für `shieldStagger`, halber Schaden; dreht sich mit Schild erst nach `shieldTurn`), Ausweichen (`counter.dodge` % je anfliegendem Nagel und je Hieb, Hüpfer weg, Nägel fliegen durch, `dodging`), Panzerung (`counter.armor` Platten, leichte Treffer nur `armorChip` %, jeder schwere Treffer bricht eine Platte). `hit(time, dmg, kb, dir, crit, { kind, heavy })`. Schild und Platten aus Code (`gear`), Platzhalter-Formen Figur/Klumpen/Drohne (`placeholderShape`, `art.js` `drawBlob`/`drawDrone`). Neue Gegner `schildtraeger` (Plünderer mit Schild) und `panzerwache` (2 Platten), Schütze weicht zu 30 % aus, Wachdrohne schießt; in den POI-Gegnerlisten. **Gegner-Arena** (`gegner_arena`, Raum-Baustein): dünne Wand, niedrige Decke mit Lauerer, Sims mit Schütze, Drohne. `nomad.spawn(id, col, row)`, `nomad.state().enemies[]` (state, kind, attack, seeing, lastKnown, plates, guardOpen, ceiling), `.noise`. Test `tools/enemy_test.mjs` (24 Prüfungen). Offen: Boss-Verhalten Hausmeister, Gruppen-Alarm, Gegner-Grafiken.
@@ -249,6 +250,7 @@ Cloudflare Worker `nomadgirl` (Workers Builds, mit GitHub verbunden): baut bei j
 
 ## Stand
 
+- 12.11.2026 nachmittags (3): **Sturmgewehr aufgeräumt**: ein Gewehr in allen Posen, keine Artefakte mehr, schönes Nachladen mit Magazinwechsel, **Symbol im Inventar** (breite Symbole), **Gewehr auf dem Rücken**, **Posen leihen** für neue Langwaffen; `game_test` 51.
 - 12.11.2026 nachmittags (2): **Einarmig baumeln** an AvA und nach ↓ an Kanten (nochmal ↓ = los), **Sturmgewehr in jedem Spielstand** (Nachreichen mit „Platz machen“); Parkour 49, `npm test` 72.
 - 12.11.2026 nachmittags: **Die Drohne heißt jetzt AvA** (vorher Mama-Bot; Code-Namen bleiben `drone`). **Sturmgewehr** mit eigenen Posen für Leyla (Test, Grundlage für Varianten), **einarmig baumeln** als Animation; To-do **Gegnerbaukasten für Sprites** (in `docs/design.md`, noch zu definieren); `game_test` 50.
 - 12.11.2026 mittags (7): **AvA leichter**: obere Hälfte = drauf, Greifarm hinten zum Hängen (greift von selbst), hängend mitfliegen, Teile geben mehr Akku (Hochleistungszelle, Turbinenmodul); Parkour 47, `pad_test` 39.

diff --git a/docs/assets.md b/docs/assets.md
@@ -70,7 +70,8 @@ Alle Assets entstehen im Projekt selbst, mit KI oder Code. Nichts Externes. Jede
 | `assets/leyla/draw_side.png`, `aim_side`, `aim_walk_side`, `shoot_side`, `shoot_walk_side` (+ `_source.gif`) | Leyla mit Pistole: ziehen (13), zielen (4), gehen mit Waffe (13), schießen im Stand und im Gehen (je 9) | KI-generiert (Daniel), zugeschnitten (Code) | 07.11.2026 |
 | `assets/leyla/run_gun_side.png` | Leyla, Rennen mit gezogener Pistole (Combat Mode): 8 Frames à 177 × 242 px, Pixel-Art, Beine und Kopf pixelgleich mit `run_side`, Arme und Pistole steif nach vorn (`leyla_run_gun_side`) | KI (PixelLab, edit_animation auf `run_side`, Palette des Originals) + Montage (Code): Kopf und Beine original, Oberkörper von PixelLab, ein Arm für alle Frames | 11.11.2026 |
 | `assets/leyla/run_ready_side.png`, `run_draw_side.png`, `run_reload_side.png`, `run_reload2_side.png` | Leyla, Rennen im Kampfmodus: Waffe an der Brust, Hand am Holster (Ziehen/Wegstecken), Nachladen in zwei Hälften; je 8 Frames à 151 × 242, Kopf und Beine pixelgleich mit `run_side` | KI (PixelLab, edit_animation auf `run_side`, Farben des Originals) + Montage (Code) | 11.11.2026 |
-| `assets/leyla/rifle_draw_side.png`, `rifle_aim_side.png`, `rifle_shoot_side.png`, `rifle_reload_side.png`, `rifle_aim_walk_side.png`, `rifle_run_gun_side.png`, `rifle_run_ready_side.png` (+ `*_source.png`) | Leyla mit generischem Sturmgewehr (Test, Grundlage für weitere Gewehre): Ziehen vom Rücken, Anlegen, Schuss mit Mündungsfeuer, Nachladen, Gehen im Anschlag, Rennen im Anschlag und bereit (`leyla_rifle_*`) | KI (PixelLab: Schlüsselposen mit Edit Pro Flash aus Zielen/Stehen, Übergänge mit Animate Image, Gehen/Rennen mit edit_animation auf `walk_side`/`run_side`) + Code (`tools/rifle_strips.py`: Farben auf Leylas Palette, Zuschnitt) | 12.11.2026 |
+| `assets/leyla/rifle_draw_side.png`, `rifle_aim_side.png`, `rifle_shoot_side.png`, `rifle_reload_side.png`, `rifle_aim_walk_side.png`, `rifle_run_gun_side.png`, `rifle_run_ready_side.png` (+ `*_source.png`) | Leyla mit generischem Sturmgewehr (Test, Grundlage für weitere Gewehre): Ziehen vom Rücken, Anlegen, Schuss mit Mündungsfeuer, Nachladen mit Magazinwechsel (23 Frames), Gehen im Anschlag, Rennen im Anschlag und bereit (`leyla_rifle_*`) | KI (PixelLab: Schlüsselposen mit Edit Pro Flash aus Zielen/Stehen, Übergänge mit Animate Image, Gehen/Rennen mit edit_animation auf `walk_side`/`run_side`) + Code (`tools/rifle_strips.py`: Farben auf Leylas Palette, Zuschnitt) | 12.11.2026 (zweite Runde: ein Gewehr für alle Posen) |
+| `assets/items/icons_longguns.png` | Symbol-Raster Langwaffen, Felder 128 × 64: Sturmgewehr (M4-Karabiner mit Tragegriff), im Inventar und auf Leylas Rücken (`icons_longguns`) | KI (PixelLab, Create Image Pro, Referenz: Gewehr aus `rifle_aim_walk_side`, Stilbild `run_side`) | 12.11.2026 |
 | `assets/leyla/hang_one_arm_side.png` (+ `_source.png`) | Leyla hängt an einem Arm und pendelt (z. B. an AvA), 8 Frames (`leyla_hang_one_arm_side`) | KI (PixelLab: Pose mit Edit Pro Flash aus `hang_side`, Pendeln mit Animate Image) + Code (`tools/rifle_strips.py`) | 12.11.2026 |
 | `assets/leyla/hit_side.png`, `hit_heavy_side.png` (+ `_source.png`) | Leyla, Treffer leicht (zurückgeschleudert, 8 Frames à 140 × 242) und schwer (zusammengekrümmt, 8 Frames à 122 × 241), ohne Effekte (`leyla_hit_side`, `leyla_hit_heavy_side`) | KI (PixelLab: Pose mit Edit Pro Flash aus dem Stehen-Frame, Übergänge mit Animate Image), Farben auf die 20 Farben von Stehen eingerastet (Code) | 11.11.2026 |
 | `assets/leyla/work_back.png` (+ `_source.gif`) | Leyla von hinten, werkelt an einer Werkstatt, 13 Frames (`leyla_work_back`) | KI-generiert (Daniel), zugeschnitten (Code) | 07.11.2026 |
